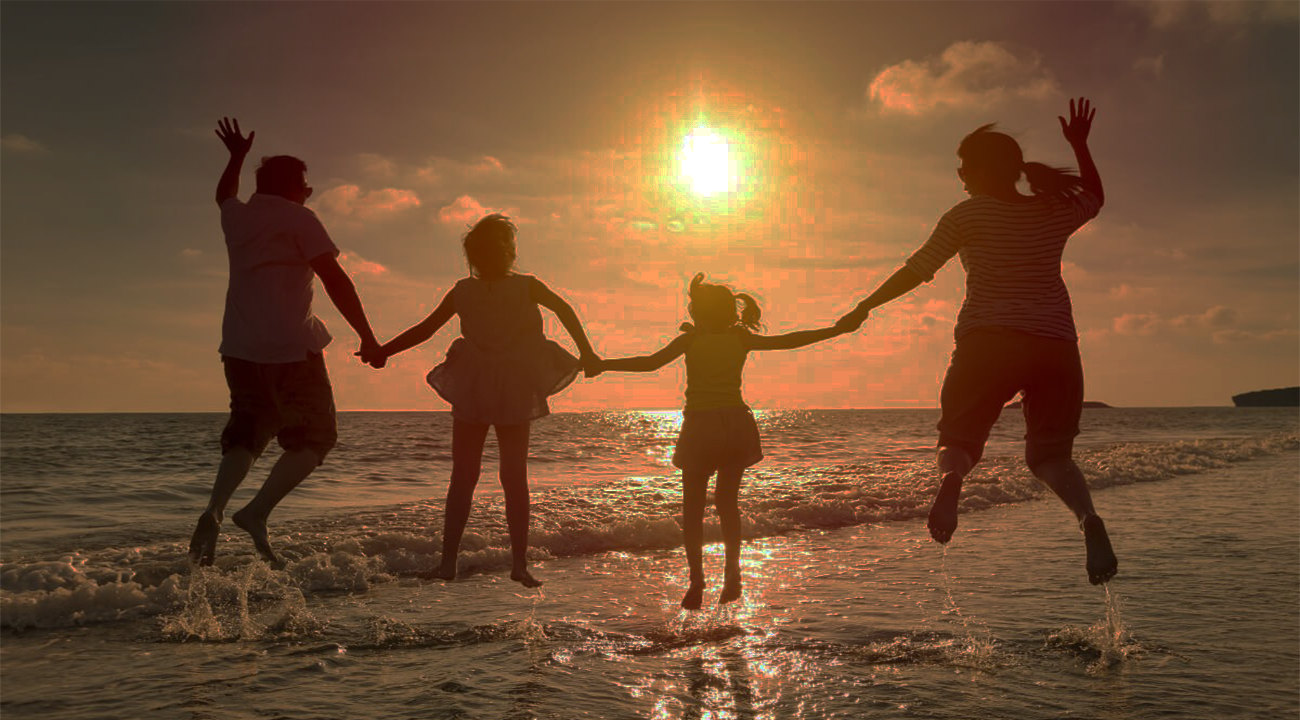
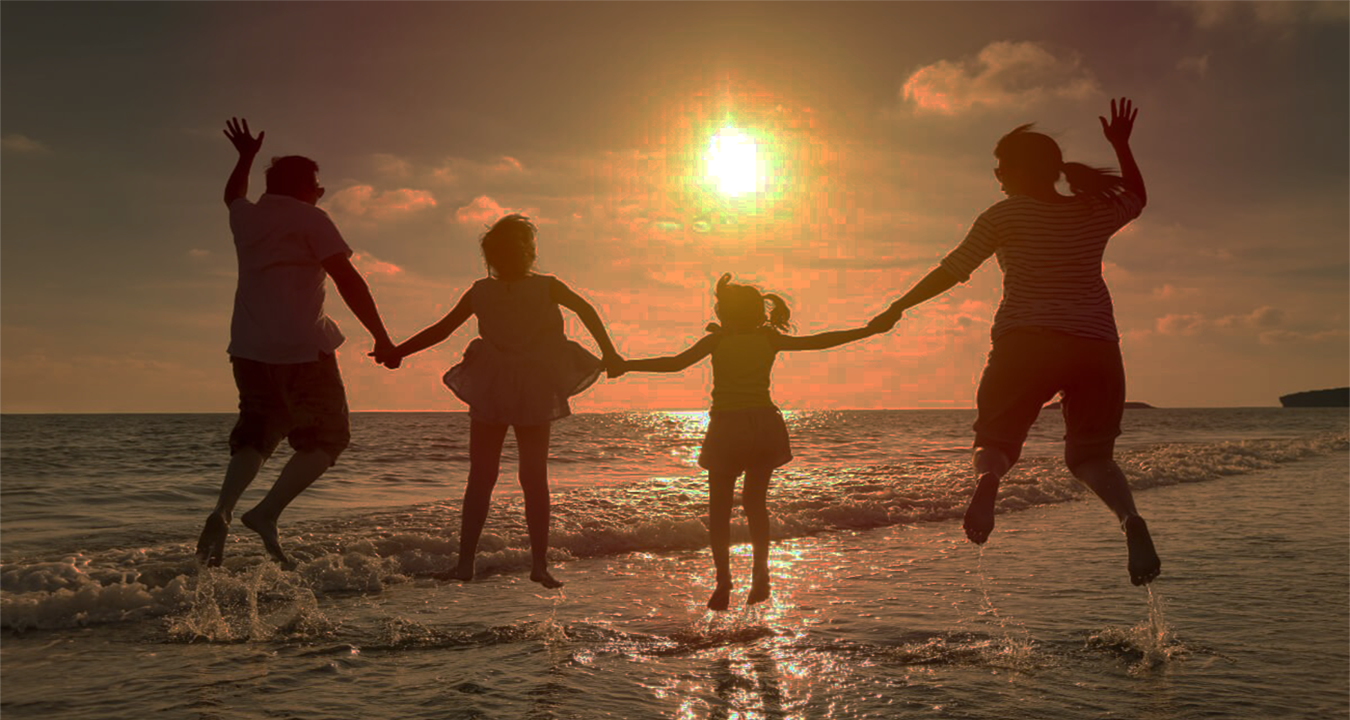
devam

diff --git a/css/all.css b/css/all.css
@@ -2,6 +2,7 @@
  * Font Awesome Free 5.3.1 by @fontawesome - https://fontawesome.com
  * License - https://fontawesome.com/license/free (Icons: CC BY 4.0, Fonts: SIL OFL 1.1, Code: MIT License)
  */
+ 
 .fa,
 .fas,
 .far,

diff --git a/application/views/bireysel.php b/application/views/bireysel.php
@@ -25,7 +25,7 @@
 
 <body>
 
-	<!-- Navbar -->
+  <!-- Navbar -->
 	<nav class="navbar navbar-expand-lg navbar-light bg-light sticky-top">
 	    <div class="container">
 	      <a class="navbar-brand font-weight-bold" href="">
@@ -41,7 +41,7 @@
 	            <a class="nav-link font-weight-bold text-dark" href="<?php echo base_url('anasayfa/teklifal'); ?>">Teklif Al</a>
 	        </ul>
 
-					<form action="<?php echo base_url('anasayfa/bireyselgiris'); ?>">
+          <form action="<?php echo base_url('anasayfa/bireyselgiris'); ?>">
     				<button class="btn btn-danger" type="submit">Bireysel Girişi</button>
   				</form>
 					<form action="<?php echo base_url('anasayfa/acentegiris'); ?>">
@@ -50,60 +50,49 @@
 	      </div>
 	    </div>
 	  </nav>
-		<!-- 2 -->
-		  <div class="hero-wrap" style="background-image: url('img/aile.png');" data-stellar-background-ratio="0.5">
-		  <div class="container">
-				</br></br>
-		    <div class="h2 pb-3 text-center text-white" data-aos="fade-up">En Uygun Sigorta Tekliflerini Ücretsiz Alın!</div>
-		    <p class="h4 px-5 pb-5 text-center text-white" data-aos="fade-up">Türkiye'nin Her ili ve İlçesinde Hizmet Veren 16.000 Profesyonel Sigorta Acentelerinden
-Ücretsiz Teklif Almak İçin Ürün Seçiniz !</p>
-		    <div class="row">
-		      <div class="col-md-3">
-          	<div class="text-center text-white">
-							<a href="">
-								<img src="<?php echo base_url('img/trafik.png'); ?>" style="width:256px;height:256px;" class="logo" alt="a">
-							</a>
-		            <div class="h5 pb-3">Trafik Teklifi Al</div>
+    <!-- Form -->
+    <div class="container-fluid px-1 px-md-5 px-lg-1 px-xl-5 py-5 mx-auto">
+    <div class="card card0 border-0">
+        <div class="row d-flex px-5">
+            <div class="col-lg-6"><br><br>
+                <div class="card1 pb-5r">
 
-		         </div>
-		      </div>
-		      <div class="col-md-3">
-		          <div class="text-center text-white">
-								<a href="">
-					        <img src="<?php echo base_url('img/kasko.png'); ?>" style="width:256px;height:256px;" class="logo" alt="a">
-					      </a>
-		            <div class="h5 pb-3">Kasko Teklifi Al</div>
-							</br></br>
-							</div>
-		      </div>
-		      <div class="col-md-3">
+                    <div class="row"> <img src="../img/teklifceptelogo.png" style="width:128px;height:100px;" class="logo"> </div>
 
-		          <div class="text-center text-white">
-								<a href="">
-					        <img src="<?php echo base_url('img/dask.png'); ?>" style="width:256px;height:256px;" class="logo" alt="a">
-					      </a>
-								<div class="h5 pb-3">Dask Sigortası Teklifi Al</div>
+                </div>
+                <div>
+                  <h2>Teklif Cepteye Hoşgeldiniz <h2>
+                </div>
+                <div class="d-flex justify-content-center">
+                  <p>Türkiye' nin Her il ve İlçesinde Bulunan Sigorta Acentelerinden Tamamen <b>Ücretsiz</b> Teklif veya Teklifler Alın ! </p>
+                </div>
+            </div>
+            <div class="col-lg-6">
+                <div class="card2 card border-0 px-4 py-5">
+                    <div class="row mb-4 px-3">
+                        <h3 class="mb-0 mr-4 mt-2">Bireysel Hesabınıza Giriş Yapın!</h3>
+                    </div>
+                    <div class="row px-3 mb-4">
+                        <div class="line"></div> <small class="or text-center">Bireysel hesabınıza giriş yapmak için teklif almış olmalısınız.</small>
+                        <div class="line"></div>
+                    </div>
+                    <form>
+  <div class="form-group">
+    <label for="exampleInputEmail1">Kullanıcı Adınız</label>
+    <input type="email" class="form-control" required id="exampleInputEmail1" aria-describedby="emailHelp" placeholder="Kullanıcı Adınız">
+  </div>
+  <div class="form-group">
+    <label for="exampleInputPassword1">Şifreniz</label>
+    <input type="password" class="form-control" id="exampleInputPassword1" placeholder="Şifreniz">
+  </div>
+  <button type="submit" class="btn btn-primary">Giriş Yap</button>
+</form>
+                </div>
+            </div>
+        </div>
 
-		          </div>
+    </div>
+</div>
+  </body>
 
-		      </div>
-					<div class="col-md-3">
-
-		          <div class="text-center text-white">
-								<a href="">
-					        <img src="<?php echo base_url('img/seyahat.png'); ?>" style="width:256px;height:256px;" class="logo" alt="a">
-					      </a>
-		            <div class="h5 pb-3">Seyahat Sağlık Teklifi Al</div>
-
-		          </div>
-
-		      </div>
-		    </div>
-		  </div>
-		</div>
-
-
-
-</body>
-
-</html>
+  </html>

diff --git a/application/views/acenteler.php b/application/views/acenteler.php
@@ -25,7 +25,7 @@
 
 <body>
 
-	<!-- Navbar -->
+  <!-- Navbar -->
 	<nav class="navbar navbar-expand-lg navbar-light bg-light sticky-top">
 	    <div class="container">
 	      <a class="navbar-brand font-weight-bold" href="">
@@ -41,7 +41,7 @@
 	            <a class="nav-link font-weight-bold text-dark" href="<?php echo base_url('anasayfa/teklifal'); ?>">Teklif Al</a>
 	        </ul>
 
-					<form action="<?php echo base_url('anasayfa/bireyselgiris'); ?>">
+          <form action="<?php echo base_url('anasayfa/bireyselgiris'); ?>">
     				<button class="btn btn-danger" type="submit">Bireysel Girişi</button>
   				</form>
 					<form action="<?php echo base_url('anasayfa/acentegiris'); ?>">
@@ -50,60 +50,51 @@
 	      </div>
 	    </div>
 	  </nav>
-		<!-- 2 -->
-		  <div class="hero-wrap" style="background-image: url('img/aile.png');" data-stellar-background-ratio="0.5">
-		  <div class="container">
-				</br></br>
-		    <div class="h2 pb-3 text-center text-white" data-aos="fade-up">En Uygun Sigorta Tekliflerini Ücretsiz Alın!</div>
-		    <p class="h4 px-5 pb-5 text-center text-white" data-aos="fade-up">Türkiye'nin Her ili ve İlçesinde Hizmet Veren 16.000 Profesyonel Sigorta Acentelerinden
-Ücretsiz Teklif Almak İçin Ürün Seçiniz !</p>
-		    <div class="row">
-		      <div class="col-md-3">
-          	<div class="text-center text-white">
-							<a href="">
-								<img src="<?php echo base_url('img/trafik.png'); ?>" style="width:256px;height:256px;" class="logo" alt="a">
-							</a>
-		            <div class="h5 pb-3">Trafik Teklifi Al</div>
+    <!-- Form -->
+    <div class="container-fluid px-1 px-md-5 px-lg-1 px-xl-5 py-5 mx-auto">
+    <div class="card card0 border-0">
+        <div class="row d-flex px-5">
+            <div class="col-lg-6"><br><br>
+                <div class="card1 pb-5r">
 
-		         </div>
-		      </div>
-		      <div class="col-md-3">
-		          <div class="text-center text-white">
-								<a href="">
-					        <img src="<?php echo base_url('img/kasko.png'); ?>" style="width:256px;height:256px;" class="logo" alt="a">
-					      </a>
-		            <div class="h5 pb-3">Kasko Teklifi Al</div>
-							</br></br>
-							</div>
-		      </div>
-		      <div class="col-md-3">
+                    <div class="row"> <img src="../img/teklifceptelogo.png" style="width:128px;height:100px;" class="logo"> </div>
 
-		          <div class="text-center text-white">
-								<a href="">
-					        <img src="<?php echo base_url('img/dask.png'); ?>" style="width:256px;height:256px;" class="logo" alt="a">
-					      </a>
-								<div class="h5 pb-3">Dask Sigortası Teklifi Al</div>
+                </div>
+                <div>
+                  <h2>Teklif Cepteye Hoşgeldiniz <h2>
+                </div>
+                <div class="d-flex justify-content-center">
+                  <p>Tebrikler. Giriş Yaparak, Acenteliğinizden talep edilen <b>teklif</b> detaylarını Görün !</p>
+                </div>
+            </div>
+            <div class="col-lg-6">
+                <div class="card2 card border-0 px-4 py-5">
+                    <div class="row mb-4 px-3">
+                        <h3 class="mb-0 mr-4 mt-2">Kurumsal Hesabınıza Giriş Yapın!</h3>
+                    </div >
+                    <div class="row px-3 mb-4">
+                      <style>
+                      a {color: #00f;}
+                    </style>
+                      <a href="">Üye Değil misin? Hemen Ücretsiz Kayıt Ol</a>
+                    </div>
+                    <form>
+  <div class="form-group">
+    <label>Kullanıcı Adınız</label>
+    <input type="text" class="form-control" required placeholder="Kullanıcı Adınız">
+  </div>
+  <div class="form-group">
+    <label for="exampleInputPassword1">Şifreniz</label>
+    <input type="password" class="form-control" required placeholder="Şifreniz">
+  </div>
+  <button type="submit" class="btn btn-primary">Giriş Yap</button>
+</form>
+                </div>
+            </div>
+        </div>
 
-		          </div>
+    </div>
+</div>
+  </body>
 
-		      </div>
-					<div class="col-md-3">
-
-		          <div class="text-center text-white">
-								<a href="">
-					        <img src="<?php echo base_url('img/seyahat.png'); ?>" style="width:256px;height:256px;" class="logo" alt="a">
-					      </a>
-		            <div class="h5 pb-3">Seyahat Sağlık Teklifi Al</div>
-
-		          </div>
-
-		      </div>
-		    </div>
-		  </div>
-		</div>
-
-
-
-</body>
-
-</html>
+  </html>

diff --git a/application/views/teklifal.php b/application/views/teklifal.php
@@ -25,7 +25,7 @@
 
 <body>
 
-	<!-- Navbar -->
+  <!-- Navbar -->
 	<nav class="navbar navbar-expand-lg navbar-light bg-light sticky-top">
 	    <div class="container">
 	      <a class="navbar-brand font-weight-bold" href="">
@@ -41,7 +41,7 @@
 	            <a class="nav-link font-weight-bold text-dark" href="<?php echo base_url('anasayfa/teklifal'); ?>">Teklif Al</a>
 	        </ul>
 
-					<form action="<?php echo base_url('anasayfa/bireyselgiris'); ?>">
+          <form action="<?php echo base_url('anasayfa/bireyselgiris'); ?>">
     				<button class="btn btn-danger" type="submit">Bireysel Girişi</button>
   				</form>
 					<form action="<?php echo base_url('anasayfa/acentegiris'); ?>">
@@ -50,8 +50,8 @@
 	      </div>
 	    </div>
 	  </nav>
-		<!-- 2 -->
-		  <div class="hero-wrap" style="background-image: url('img/aile.png');" data-stellar-background-ratio="0.5">
+    <!-- 2 -->
+		  <div class="hero-wrap" style="background-image: url('../img/aile2.jpg');" data-stellar-background-ratio="0.5">
 		  <div class="container">
 				</br></br>
 		    <div class="h2 pb-3 text-center text-white" data-aos="fade-up">En Uygun Sigorta Tekliflerini Ücretsiz Alın!</div>
@@ -101,9 +101,6 @@
 		    </div>
 		  </div>
 		</div>
+  </body>
 
-
-
-</body>
-
-</html>
+  </html>

diff --git a/application/controllers/anasayfa.php b/application/controllers/anasayfa.php
@@ -1,0 +1,28 @@
+<?php if ( ! defined('BASEPATH')) exit('No direct script access allowed');
+
+class Anasayfa extends CI_Controller {
+
+	public function index()
+	{
+		$this->load->view('welcome_message');
+	}
+
+	public function acenteler()
+	{
+		$this->load->view('acenteler');
+	}
+
+	public function teklifal()
+	{
+		$this->load->view('teklifal');
+	}
+	public function bireyselgiris()
+	{
+		$this->load->view('bireysel');
+	}
+
+	public function acentegiris()
+	{
+		$this->load->view('acenteler');
+	}
+}

diff --git a/application/config/routes.php b/application/config/routes.php
@@ -38,7 +38,7 @@
 |
 */
 
-$route['default_controller'] = "welcome";
+$route['default_controller'] = "anasayfa";
 $route['404_override'] = '';
 
 
